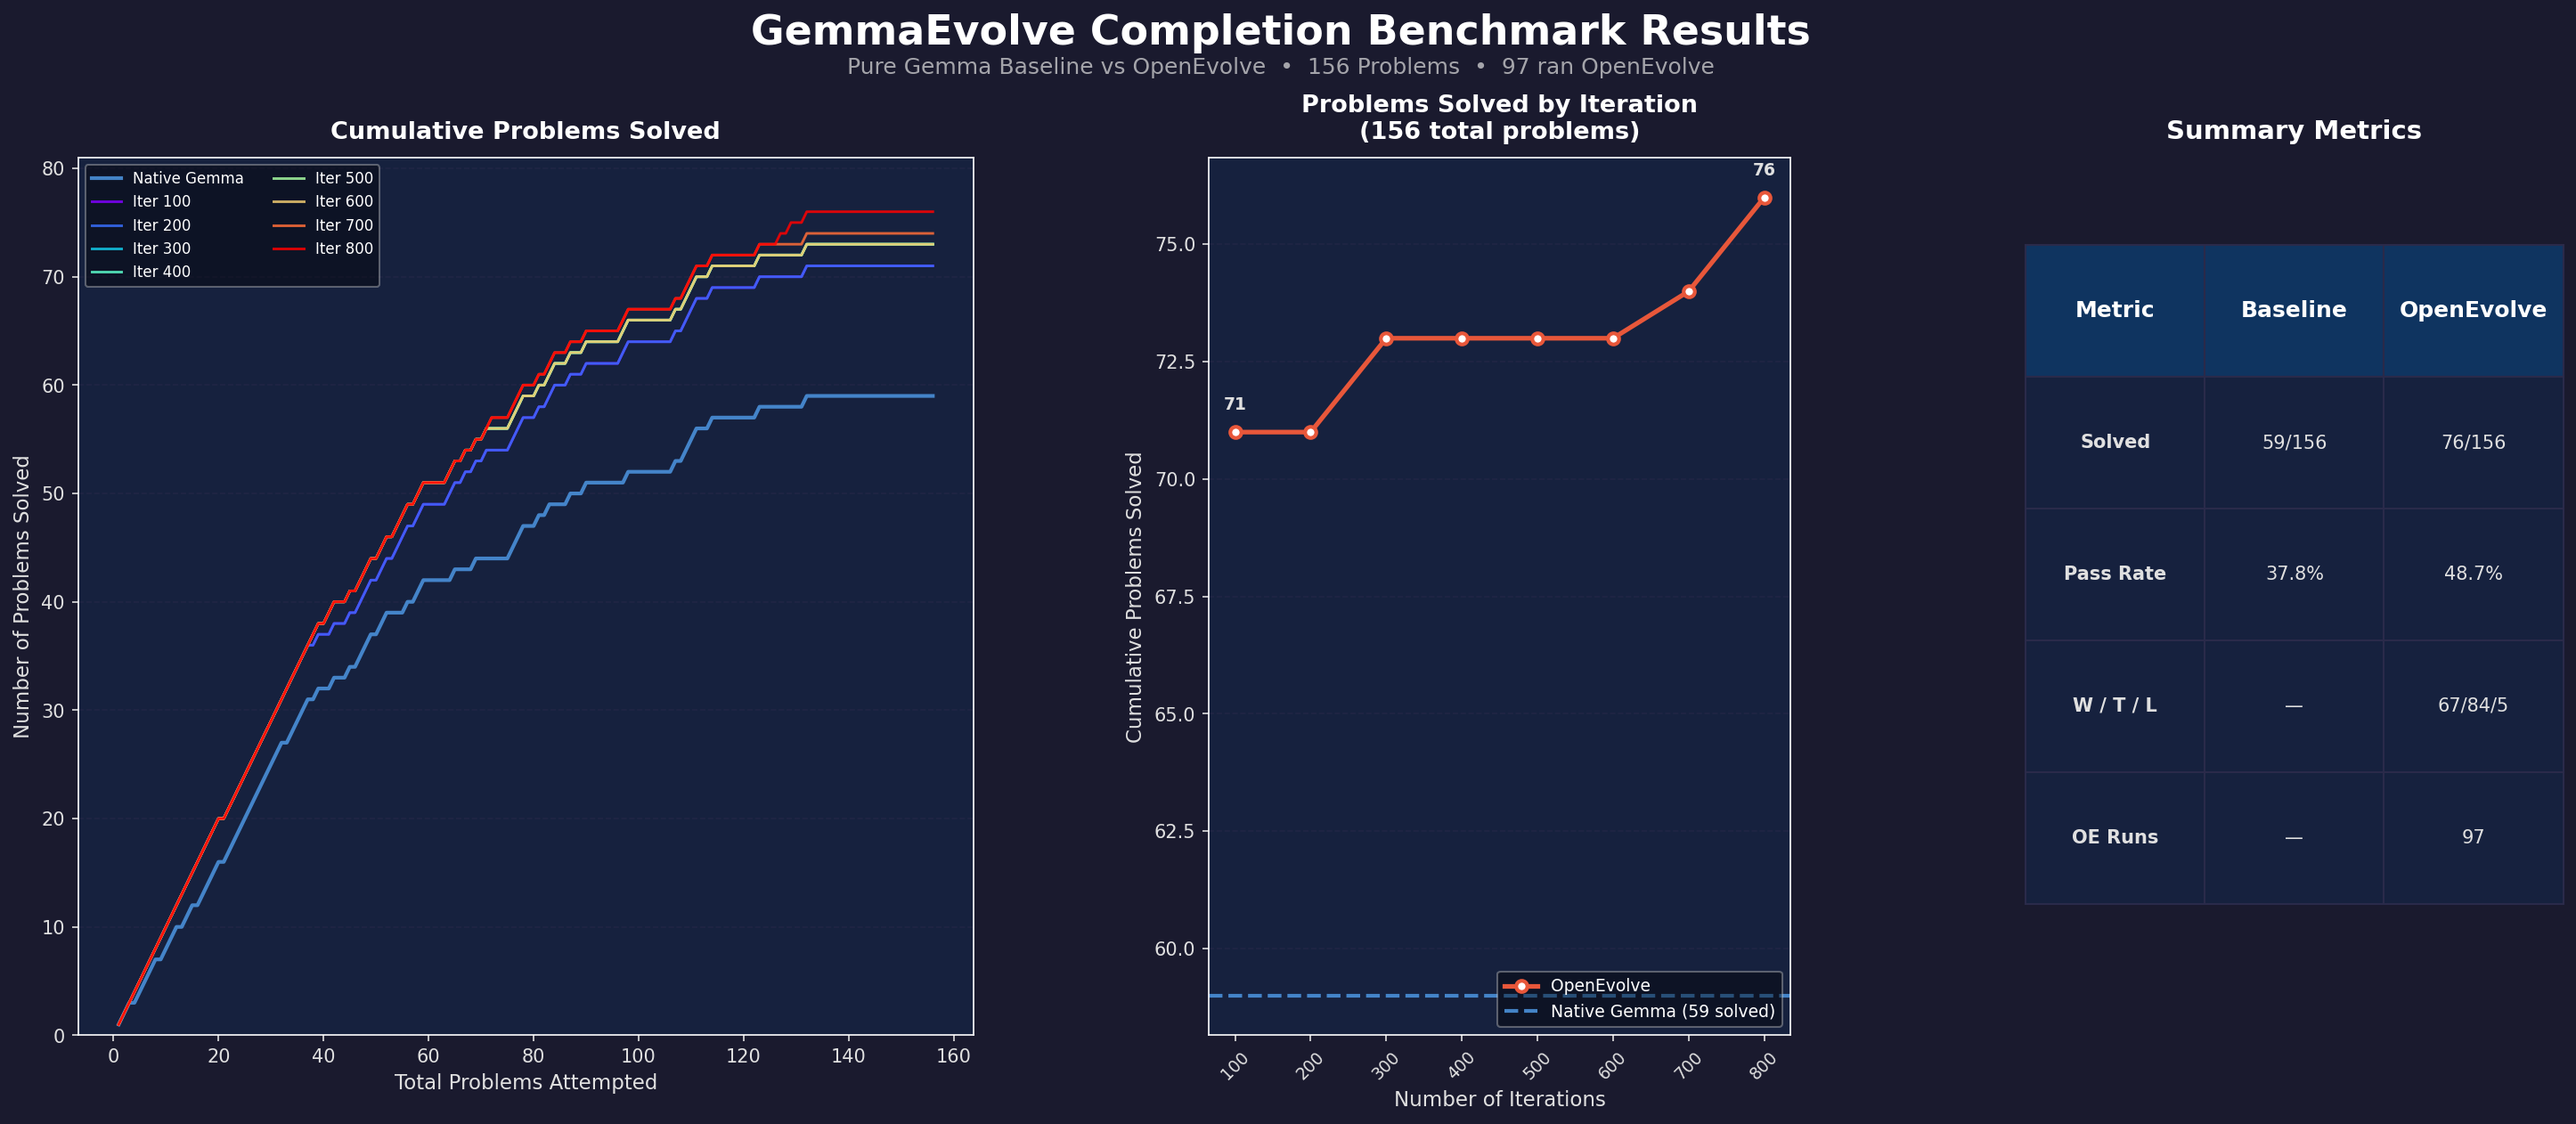
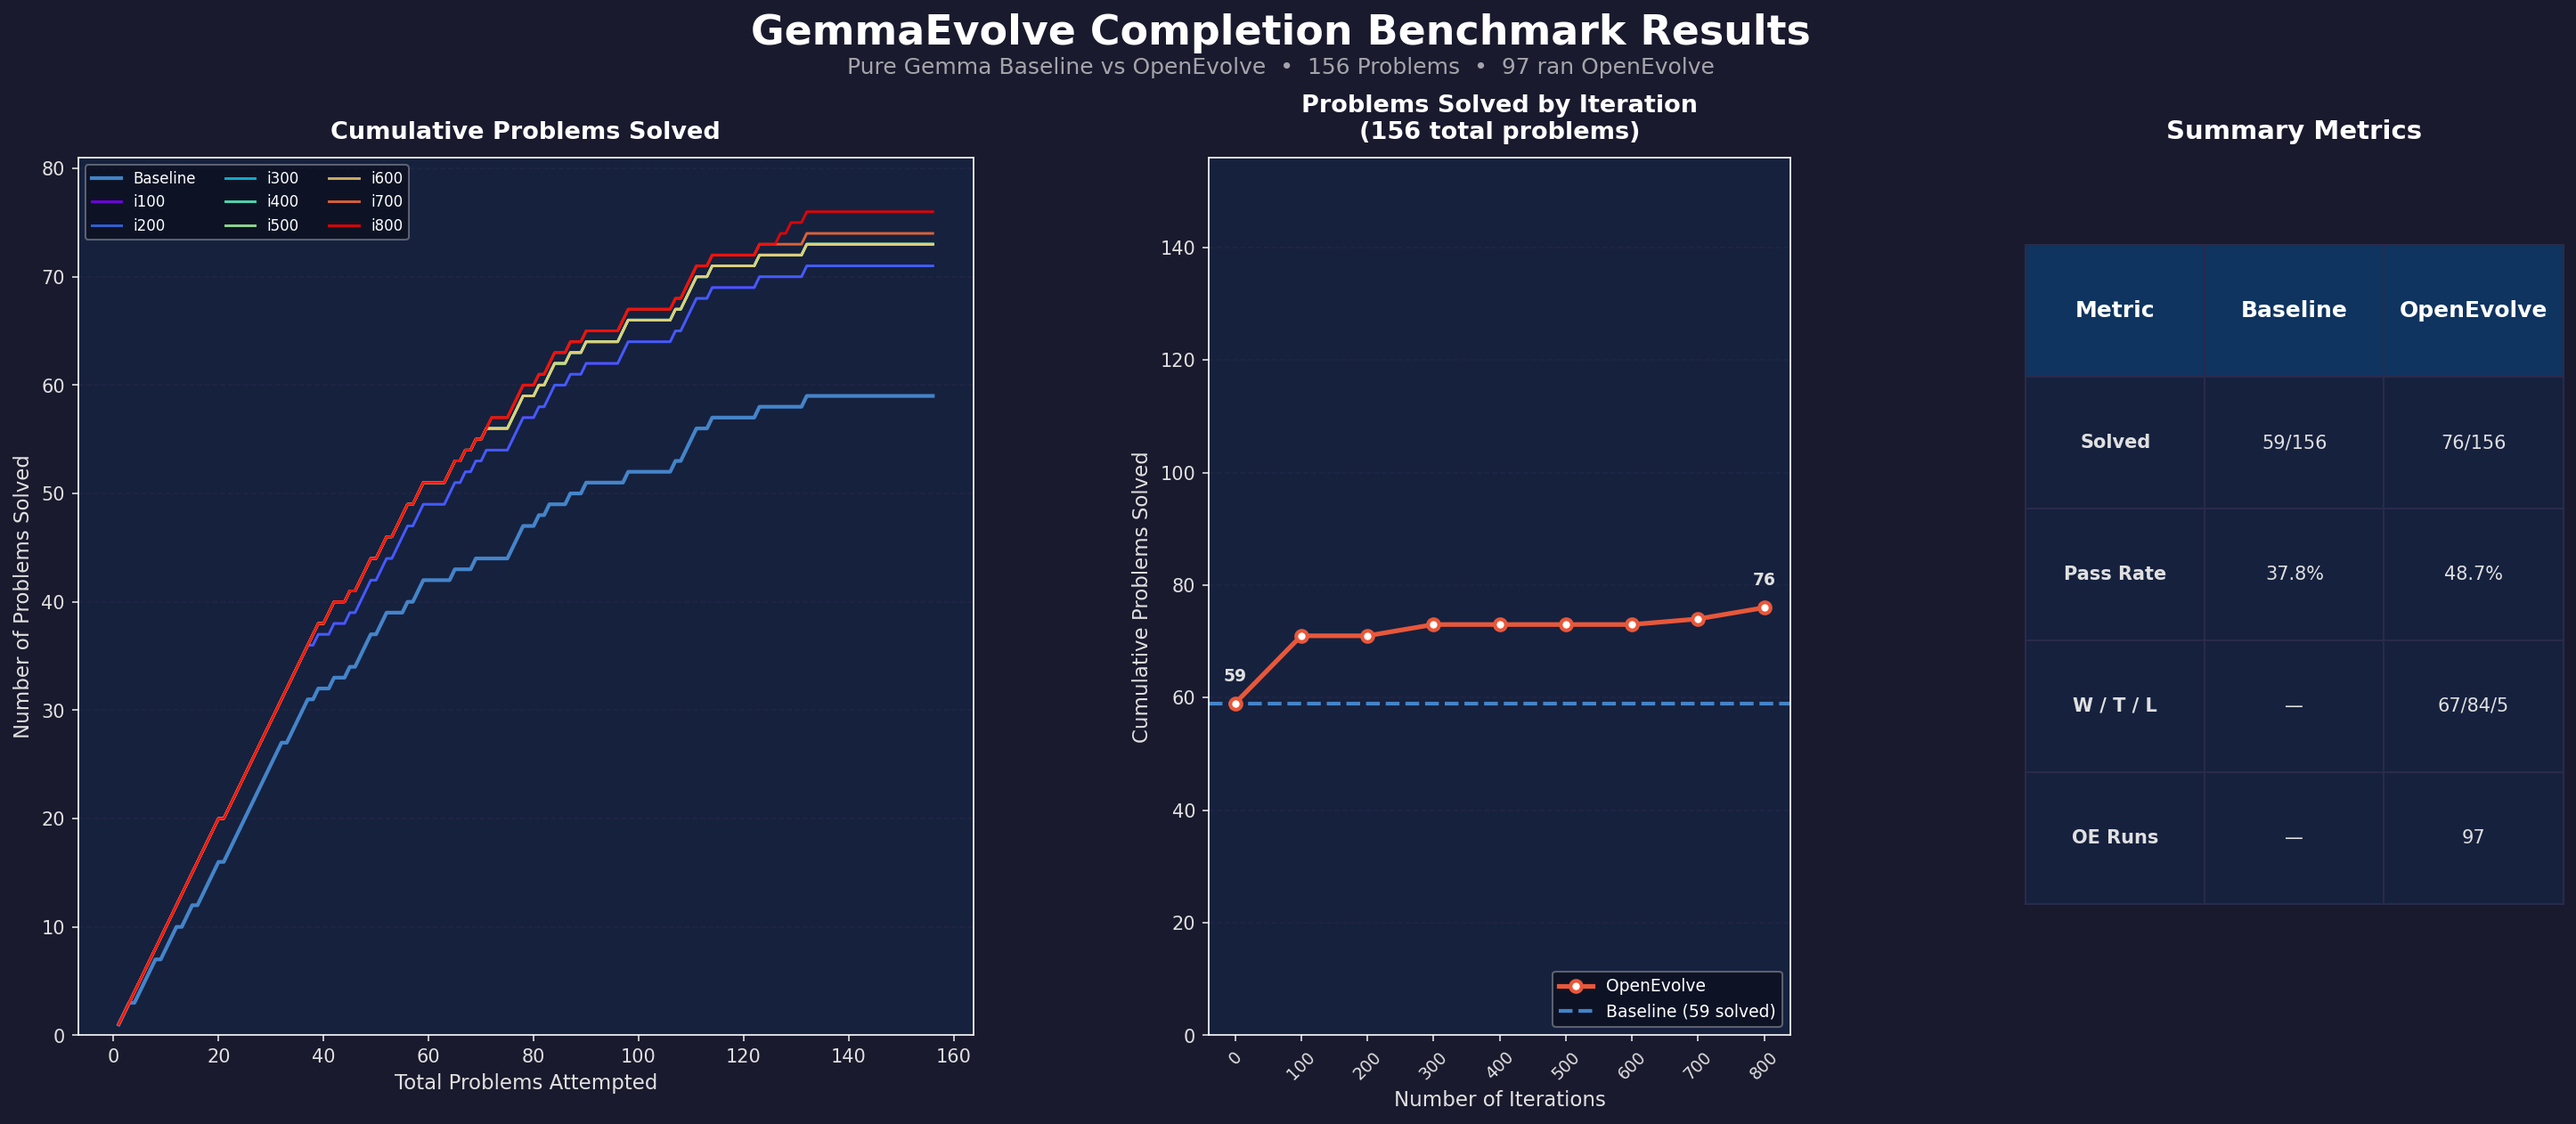
Updated chart

diff --git a/completion_benchmark_results_chart.py b/completion_benchmark_results_chart.py
@@ -111,7 +111,7 @@ def main():
     # Build cumulative solved for each model line
     # Native Gemma
     gemma_cum = np.cumsum([1 if a >= 1.0 else 0 for a in b_acc])
-    ax1.plot(x, gemma_cum, color=COLOR_BASELINE, linewidth=2.0, alpha=0.9, label='Native Gemma')
+    ax1.plot(x, gemma_cum, color=COLOR_BASELINE, linewidth=2.0, alpha=0.9, label='Baseline')
 
     # OpenEvolve iterations (iter_100 through iter_800)
     iter_cmap = plt.cm.rainbow(np.linspace(0, 1, len(ITER_KEYS)))
@@ -127,7 +127,7 @@ def main():
                 iter_acc.append(oe[key]["accuracy"])
         cum_solved = np.cumsum([1 if a >= 1.0 else 0 for a in iter_acc])
         max_solved = max(max_solved, int(cum_solved[-1]))
-        label = key.replace("_", " ").title()
+        label = key.replace("iter_", "i")
         ax1.plot(x, cum_solved, color=iter_cmap[idx], linewidth=1.4, alpha=0.85, label=label)
 
     ax1.set_xlabel("Total Problems Attempted", fontsize=11, color=COLOR_TEXT)
@@ -135,7 +135,7 @@ def main():
     ax1.set_title("Cumulative Problems Solved",
                   fontsize=13, fontweight='bold', color='white', pad=10)
     ax1.set_ylim(0, max_solved + 5)
-    ax1.legend(fontsize=8, loc='upper left', framealpha=0.4, ncol=2)
+    ax1.legend(fontsize=8, loc='upper left', framealpha=0.4, ncol=3)
     ax1.grid(axis='y', color=COLOR_GRID, linestyle='--', alpha=0.5, zorder=0)
     ax1.tick_params(colors=COLOR_TEXT)
 
@@ -144,8 +144,8 @@ def main():
     ax2.set_facecolor(COLOR_PANEL)
 
     # Count how many problems are solved (accuracy >= 1.0) at each iteration checkpoint
-    iter_nums = [int(k.replace("iter_", "")) for k in ITER_KEYS]
-    cum_solved_by_iter = []
+    iter_nums = [0] + [int(k.replace("iter_", "")) for k in ITER_KEYS]
+    cum_solved_by_iter = [b_solved]
     for key in ITER_KEYS:
         solved_count = 0
         for d in data:
@@ -167,7 +167,7 @@ def main():
 
     # Horizontal line for Native Gemma's total solved problems
     ax2.axhline(y=b_solved, color=COLOR_BASELINE, linestyle='--',
-                linewidth=2.0, alpha=0.9, label=f'Native Gemma ({b_solved} solved)')
+                linewidth=2.0, alpha=0.9, label=f'Baseline ({b_solved} solved)')
 
     # Annotate first and last points
     ax2.annotate(f'{cum_solved_by_iter[0]}', (ix[0], cum_solved_by_iter[0]),
@@ -177,6 +177,7 @@ def main():
                  textcoords="offset points", xytext=(0, 12), ha='center',
                  fontsize=9, color=COLOR_TEXT, fontweight='bold')
 
+    ax2.set_ylim(0, 156)
     ax2.set_xticks(ix)
     ax2.set_xticklabels([str(i) for i in iter_nums], fontsize=9, color=COLOR_TEXT, rotation=45)
     ax2.set_xlabel("Number of Iterations", fontsize=11, color=COLOR_TEXT)
